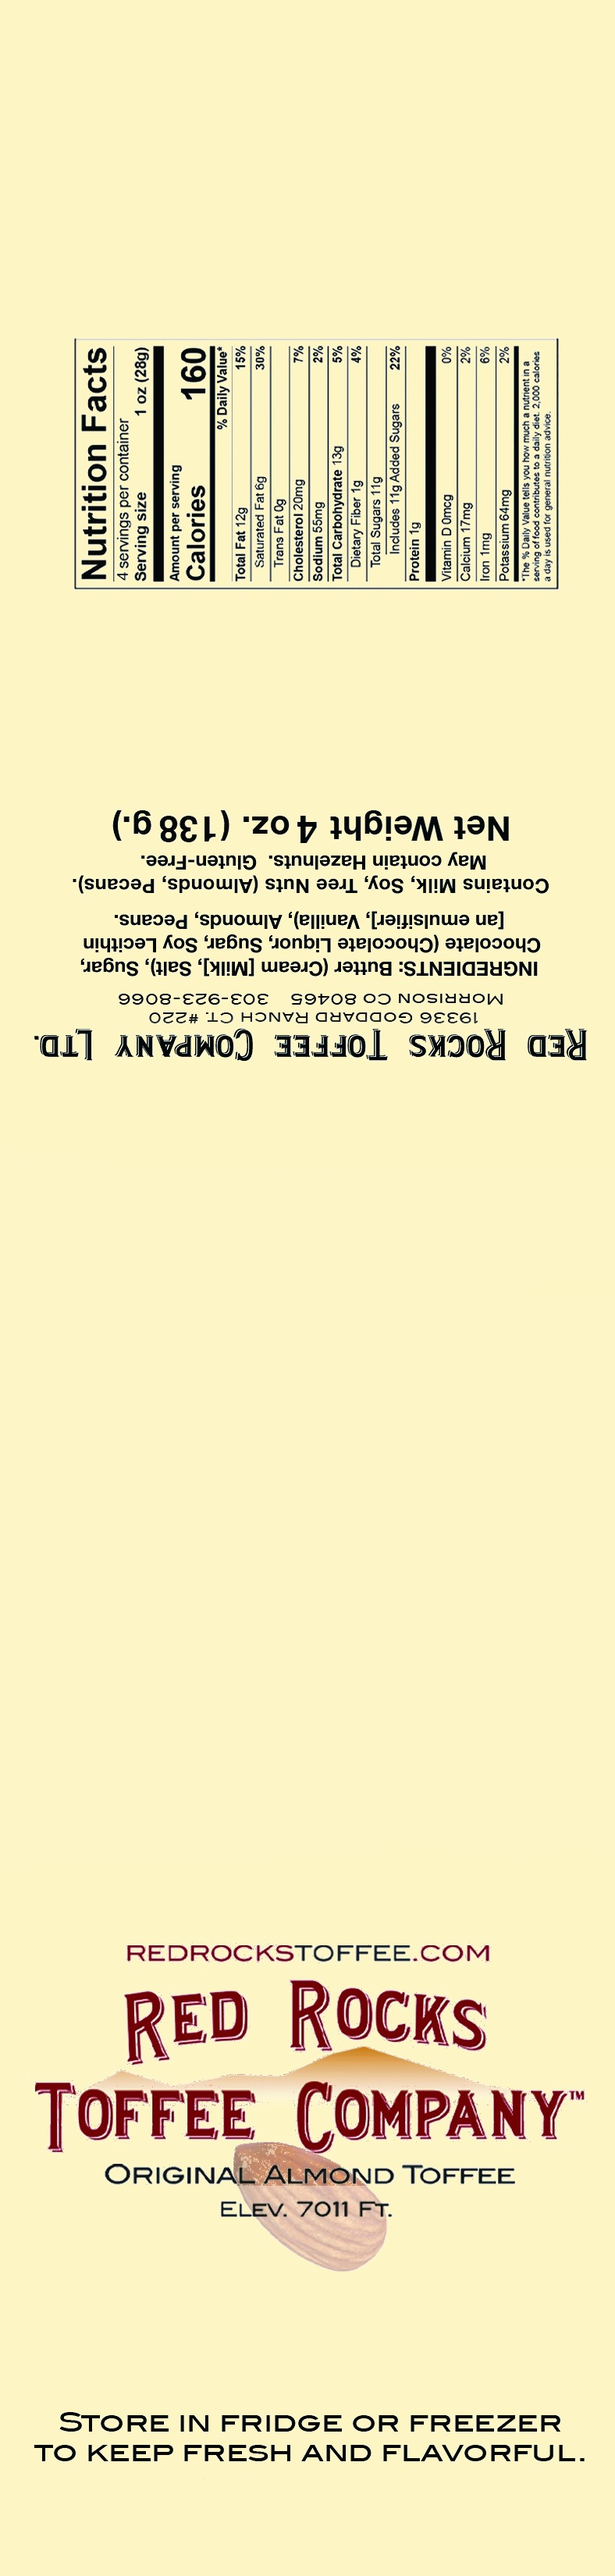
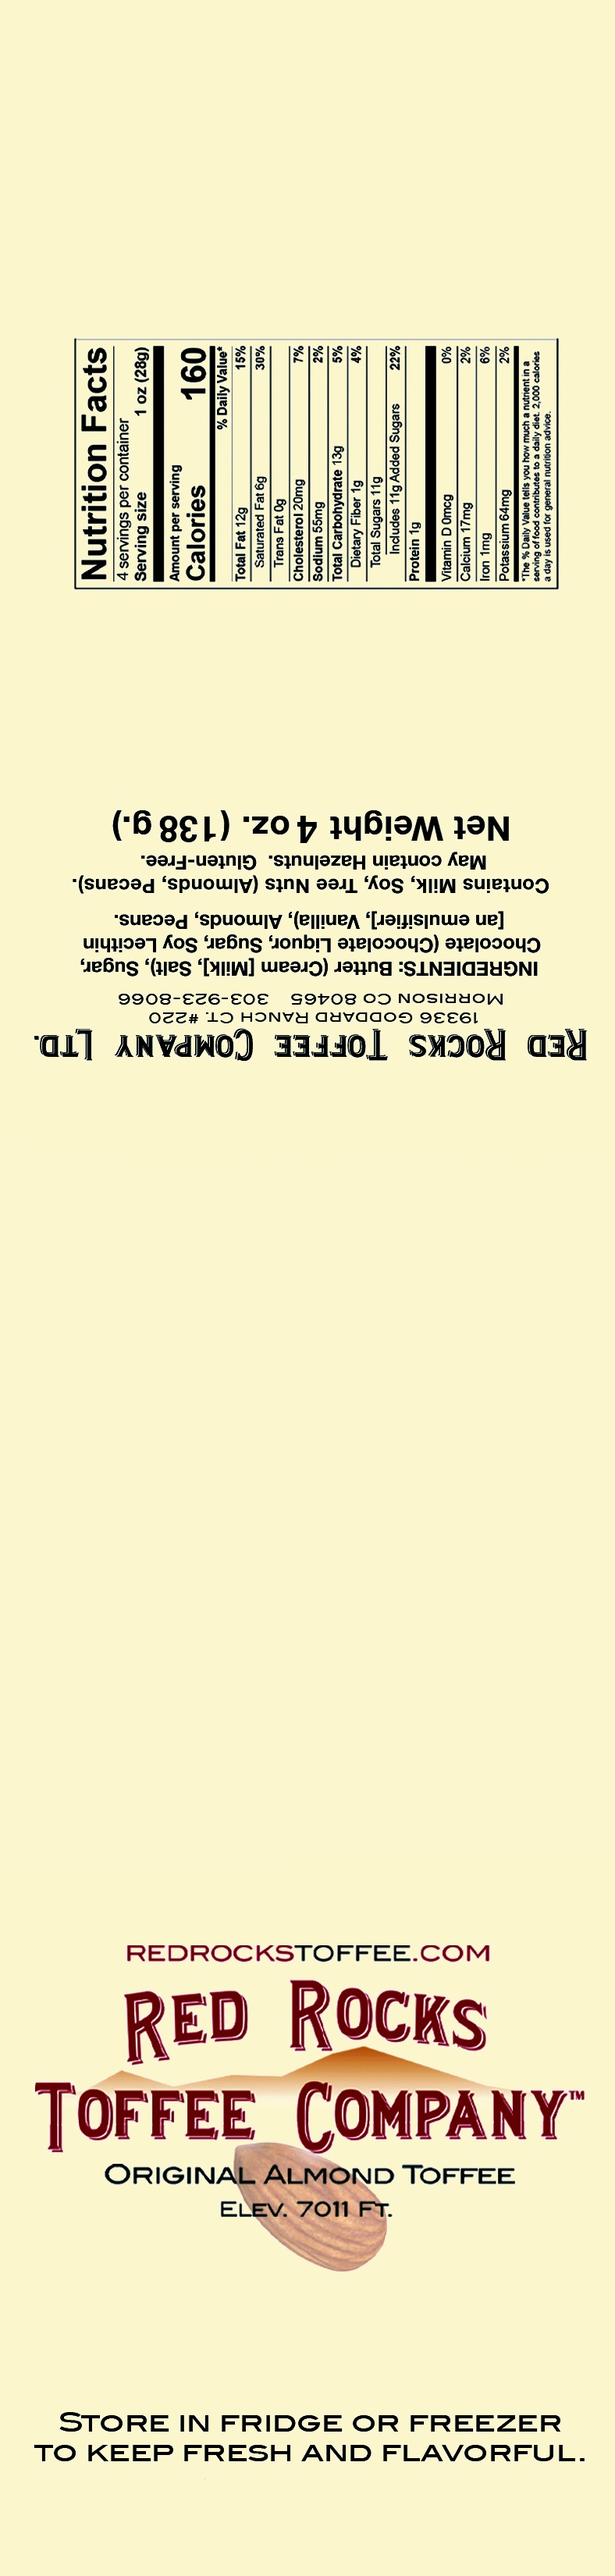
Fix label seam artifact, order-email delivery, and 3D-mockup paper color
- Replace 4oz-template.jpg wholesale with Pete's corrected source file
  (fixes a seam/halo artifact around the almond graphic, traced to an
  earlier bounded-rectangle retint that clipped into the artwork).
- handle-submission.php: order notification now goes to both
  admin_email and pete@roadrex.com (admin_email alone was going
  unchecked), and switches from MIME attachments to download links —
  a real order's attachments (~8.8MB) were hitting GoDaddy's mail
  relay's hard size cap (HTTP 413) and silently vanishing.
- Rebuild both -tinted.jpg files (3D box mockup) color-matched to a
  real physical label, replacing the old, never-verified tint.
- label-configurator.js: the editing-stage background now uses the
  same tint (previously only the 3D mockup did), and default "WHITE
  TYPE" customer text now previews in the paper tint instead of pure
  white (matching how unprinted paper actually looks) while the
  actual print payload still sends true white, since that's correct
  against the plain, untinted print template.

diff --git a/wp-content/plugins/rrt-label-configurator/assets/label-configurator.js b/wp-content/plugins/rrt-label-configurator/assets/label-configurator.js
@@ -54,6 +54,13 @@
 		pacifico: "'Pacifico', cursive",
 	};
 
+	// Pete, 2026-10-28: the calibrated label-paper tint — see
+	// resolveTextColor() below for why WHITE TYPE's on-screen fill uses
+	// this instead of true white. Keep in sync with tint-template.php's
+	// own target color by eye; there's no shared source for it since one
+	// is a PHP build script and the other is this browser-side preview.
+	var RRT_LABEL_TINT_HEX = '#fcf6cd';
+
 	// The 5 fixed text-color swatches (toffee-appropriate: brand red, gold,
 	// brown, cream, slate) — see inc/quote-module-card.part.php for why
 	// .color-row/.color-swatch themselves are the real site's own
@@ -190,7 +197,12 @@
 		// in rrt-label-configurator.php.
 		els.stage.style.aspectRatio = size.crop_width + ' / ' + size.visible_crop_height;
 		els.stageInner.style.aspectRatio = size.crop_width + ' / ' + size.crop_height;
-		els.bg.src = size.template_url;
+		// Pete, 2026-10-28: "that yellow isn't carried in the file" — the
+		// editing stage was showing the plain white template while only the
+		// 3D box mockup used the color-matched tint. Same tinted JPEG, same
+		// pixel dimensions as the plain file (the tint script only recolors,
+		// never resizes), so the zone/crop math below is unaffected.
+		els.bg.src = size.template_tinted_url;
 		els.bg.style.width = size.bg_width_pct + '%';
 		els.bg.style.transform = 'translate(-' + size.bg_translate_x + '%, -' + size.bg_translate_y + '%)';
 
@@ -1592,14 +1604,25 @@
 	// WHITE TYPE. Fix: always use the dark outline recipe — it's visible
 	// against this light backdrop in every case, including a harmless,
 	// subtle self-outline when the text itself is already dark.
-	function resolveTextColor( group ) {
+	// Pete, 2026-10-28: "white lettering... it'll need to be filled with the
+	// same label tint" — on the actual physical label, WHITE TYPE isn't
+	// white ink; it's just unprinted paper, so it prints as whatever color
+	// the paper actually is (confirmed earlier: the real label stock is a
+	// light yellow). The PRINT path must keep sending pure white though —
+	// GD draws that onto the PLAIN (untinted) template, where white is
+	// still the correct "leave this blank" marker. Only the on-screen
+	// preview (now showing the tinted background) should swap WHITE TYPE's
+	// fill for the same tint color, so it reads as blank paper instead of
+	// a stray white patch. forPrint keeps these two in sync for every
+	// other case — only WHITE TYPE diverges.
+	function resolveTextColor( group, forPrint ) {
 		if ( group.textColor ) {
 			return { color: group.textColor, outline: '#000000' };
 		}
 		if ( 'black' === group.shadowColor ) {
 			return { color: '#1a1a1a', outline: '#000000' };
 		}
-		return { color: '#ffffff', outline: '#000000' };
+		return { color: forPrint ? '#ffffff' : RRT_LABEL_TINT_HEX, outline: '#000000' };
 	}
 
 	// Pete, 2026-10-17: "black type shadow really needs to be backed way
@@ -1690,7 +1713,11 @@
 			} );
 			state.textGroups.forEach( function ( group ) {
 				if ( group.text.trim() ) {
-					var resolvedColor = resolveTextColor( group );
+					// forPrint=true: WHITE TYPE must stay pure white here —
+					// see resolveTextColor()'s own note on why the print
+					// path and the on-screen preview deliberately diverge
+					// only for that one case.
+					var resolvedColor = resolveTextColor( group, true );
 					layersMeta.push( {
 						type: 'text',
 						pos: group.pos,

diff --git a/wp-content/plugins/rrt-label-configurator/inc/handle-submission.php b/wp-content/plugins/rrt-label-configurator/inc/handle-submission.php
@@ -308,7 +308,7 @@ function rrt_label_handle_submit() {
 	// fails or just never gets tested at all. Either way, the files on
 	// disk (now in $order_dir, alongside order-info.txt below) are the
 	// real, always-true answer regardless of whether mail works.
-	rrt_label_email_submission( $fields, $composite_path, $layer_paths, $sheet_path, $original_paths );
+	rrt_label_email_submission( $fields, $composite_path, $layer_paths, $sheet_path, $original_paths, $order_dir, $proof_path );
 
 	// Same details as the email body, saved to disk too so the folder is
 	// self-contained — every part of the order "side by side," per Pete's
@@ -1051,21 +1051,32 @@ function rrt_label_draw_text( $canvas, $px, $label_text, $text_pos, $text_font, 
  *
  * Pete, 2026-10-18: "flat and layered... with the full file at 300 dpi
  * ready to print" — $layer_paths (from rrt_label_composite_layers(), may
- * be an empty array if that step failed) are attached alongside the flat
- * composite: the bare template plus one transparent PNG per customer
- * layer, all print-resolution, same full 11" size/position as the flat
- * file, so the whole design can be reconstructed as real separate layers
- * in Photoshop/GIMP.
+ * be an empty array if that step failed): the bare template plus one
+ * transparent PNG per customer layer, all print-resolution, same full
+ * 11" size/position as the flat file, so the whole design can be
+ * reconstructed as real separate layers in Photoshop/GIMP.
  *
  * Pete, 2026-10-19: $sheet_path (from rrt_label_composite_sheet(), may be
  * null if that step failed) is the actual print-ready sheet — the flat
- * label doubled/tripled side by side per rrt_label_sheet_config() — also
- * attached here since this is the only working delivery channel right
- * now ("this file will be attached to any customer emails" — the order
- * confirmation page version is explicitly deferred, pending WooCommerce).
+ * label doubled/tripled side by side per rrt_label_sheet_config().
+ *
+ * Pete, 2026-10-28: all of the above used to go out as real MIME
+ * attachments. A real order (flat + sheet + 4 layers + original upload,
+ * ~8.8MB raw) hit GoDaddy's mail relay's size cap and got a hard HTTP 413
+ * back — silently, since the result of wp_mail() was never checked.
+ * Cassie's earlier orders were smaller and happened to sneak under the
+ * cap, which is why they "came through like a dream" while this one
+ * vanished. Pete: "what if we send links to the files instead" / "that's
+ * what we have on theunframer.com" / "full files, everything" — so every
+ * file still goes out (nothing trimmed), just as a link into the order's
+ * own uploads folder (already public, like any other WP upload) instead
+ * of as a MIME attachment. No size ceiling either way now.
  */
-function rrt_label_email_submission( $fields, $composite_path, $layer_paths = array(), $sheet_path = null, $original_paths = array() ) {
-	$to      = get_option( 'admin_email' );
+function rrt_label_email_submission( $fields, $composite_path, $layer_paths = array(), $sheet_path = null, $original_paths = array(), $order_dir = '', $proof_path = null ) {
+	// Pete, 2026-10-28: admin_email (pete@redrockstoffee.com) wasn't getting
+	// checked — submissions were landing with no one seeing them. Send to
+	// both so a missed inbox on one side doesn't mean a missed order.
+	$to      = array_unique( array_filter( array( get_option( 'admin_email' ), 'pete@roadrex.com' ) ) );
 	$subject = sprintf( '[Co-Branding Label] New design from %s', $fields['name'] );
 
 	$logo_count = 0;
@@ -1078,14 +1089,49 @@ function rrt_label_email_submission( $fields, $composite_path, $layer_paths = ar
 		}
 	}
 
-	$body  = "A new co-branding label design was submitted:\n\n";
-	$body .= 'Box size: ' . $fields['size'] . "\n";
-	$body .= 'Name: ' . $fields['name'] . "\n";
-	$body .= 'Email: ' . $fields['email'] . "\n";
-	$body .= 'Phone: ' . $fields['phone'] . "\n";
-	$body .= 'Quantity requested: ' . $fields['quantity'] . "\n";
-	$body .= 'Labels to print (qty + 5% buffer): ' . $fields['labels_needed'] . "\n";
-	$body .= 'Logos: ' . $logo_count . "\n";
+	$upload_dir = wp_upload_dir();
+	$order_url  = trailingslashit( $upload_dir['baseurl'] ) . 'rrt-label-orders/' . rawurlencode( basename( $order_dir ) );
+
+	$files = array();
+	if ( $composite_path && file_exists( $composite_path ) ) {
+		$files['Flat label (300 DPI, ready to print)'] = $composite_path;
+	}
+	if ( $sheet_path && file_exists( $sheet_path ) ) {
+		$files[ sprintf( 'Print-ready sheet (%d labels tiled)', $fields['labels_needed'] ) ] = $sheet_path;
+	}
+	if ( $proof_path && file_exists( $proof_path ) ) {
+		$files['Customer-facing proof (logo/text in context)'] = $proof_path;
+	}
+	foreach ( $layer_paths as $layer_path ) {
+		if ( file_exists( $layer_path ) ) {
+			$files[ 'Layer: ' . basename( $layer_path ) ] = $layer_path;
+		}
+	}
+	// Pete, 2026-10-27: "here are the files" — one came through named
+	// literally "phpgTLcxA", no extension at all. $layer['tmp_path'] for a
+	// real upload is PHP's own raw upload tmp file, which has no real
+	// filename of its own. $original_paths (rrt_label_save_originals(),
+	// called before this function) already copied the same files into the
+	// order folder under proper names (original-logo-1.jpg, etc.) — link
+	// those instead so the filename actually means something.
+	foreach ( $original_paths as $original_path ) {
+		if ( file_exists( $original_path ) ) {
+			$files[ 'Original upload: ' . basename( $original_path ) ] = $original_path;
+		}
+	}
+
+	$body  = '<html><body style="font-family: Arial, sans-serif; line-height: 1.6;">';
+	$body .= '<h2 style="margin-bottom:4px;">New co-branding label design</h2>';
+	$body .= '<table style="border-collapse: collapse; width: 100%; max-width: 600px;">';
+	$body .= '<tr><td style="padding:6px 8px; border-bottom:1px solid #ddd;"><strong>Box size</strong></td><td style="padding:6px 8px; border-bottom:1px solid #ddd;">' . esc_html( $fields['size'] ) . '</td></tr>';
+	$body .= '<tr><td style="padding:6px 8px; border-bottom:1px solid #ddd;"><strong>Name</strong></td><td style="padding:6px 8px; border-bottom:1px solid #ddd;">' . esc_html( $fields['name'] ) . '</td></tr>';
+	$body .= '<tr><td style="padding:6px 8px; border-bottom:1px solid #ddd;"><strong>Email</strong></td><td style="padding:6px 8px; border-bottom:1px solid #ddd;"><a href="mailto:' . esc_attr( $fields['email'] ) . '">' . esc_html( $fields['email'] ) . '</a></td></tr>';
+	$body .= '<tr><td style="padding:6px 8px; border-bottom:1px solid #ddd;"><strong>Phone</strong></td><td style="padding:6px 8px; border-bottom:1px solid #ddd;">' . esc_html( $fields['phone'] ) . '</td></tr>';
+	$body .= '<tr><td style="padding:6px 8px; border-bottom:1px solid #ddd;"><strong>Quantity requested</strong></td><td style="padding:6px 8px; border-bottom:1px solid #ddd;">' . esc_html( $fields['quantity'] ) . '</td></tr>';
+	$body .= '<tr><td style="padding:6px 8px; border-bottom:1px solid #ddd;"><strong>Labels to print (+5%)</strong></td><td style="padding:6px 8px; border-bottom:1px solid #ddd;">' . esc_html( $fields['labels_needed'] ) . '</td></tr>';
+	$body .= '<tr><td style="padding:6px 8px; border-bottom:1px solid #ddd;"><strong>Logos</strong></td><td style="padding:6px 8px; border-bottom:1px solid #ddd;">' . esc_html( $logo_count ) . '</td></tr>';
+	$body .= '</table>';
+
 	// Pete, 2026-10-26: "I don't want to take someone's money and print a
 	// really sh*t label from a garbage file" — warn-not-block (confirmed),
 	// so this is the backstop: even if the customer ignored the on-page
@@ -1099,47 +1145,36 @@ function rrt_label_email_submission( $fields, $composite_path, $layer_paths = ar
 		}
 		++$logo_n;
 		if ( ! empty( $layer['low_quality'] ) ) {
-			$body .= "\xE2\x9A\xA0 Logo {$logo_n} may be low-resolution for the size it was placed at — check before printing.\n";
+			$body .= '<p style="color:#b00020; font-weight:bold;">&#9888; Logo ' . esc_html( $logo_n ) . ' may be low-resolution for the size it was placed at — check before printing.</p>';
 		}
 	}
-	foreach ( $text_lines as $i => $line ) {
-		$body .= 'Text ' . ( $i + 1 ) . ': ' . $line . "\n";
+
+	if ( $text_lines ) {
+		$body .= '<h3 style="margin-bottom:4px;">Text</h3><ul>';
+		foreach ( $text_lines as $i => $line ) {
+			$body .= '<li>Text ' . ( $i + 1 ) . ': ' . esc_html( $line ) . '</li>';
+		}
+		$body .= '</ul>';
 	}
 	if ( $fields['message'] ) {
-		$body .= "\nMessage:\n" . $fields['message'] . "\n";
-	}
-	$body .= "\nAttached:\n";
-	$body .= "- The flat, full 11\" label (PNG, real 300 DPI tag) — ready to print exactly as the customer designed it.\n";
-	if ( $layer_paths ) {
-		$body .= "- The same design as separate layers (bare template + one file per logo/text piece, numbered in stacking order) — open them all in Photoshop/GIMP as individual layers if you need to adjust any one piece by hand.\n";
-	}
-	$body .= "- The original uploaded logo file(s), if any, in case you want to work from the source image directly.\n";
-	if ( $sheet_path ) {
-		$body .= "- The print-ready sheet (multiple labels tiled side by side) — reprint this same file as many times as it takes to cover {$fields['labels_needed']} labels.";
+		$body .= '<h3 style="margin-bottom:4px;">Message</h3><p>' . nl2br( esc_html( $fields['message'] ) ) . '</p>';
 	}
 
-	$attachments = array( $composite_path );
-	if ( $sheet_path && file_exists( $sheet_path ) ) {
-		$attachments[] = $sheet_path;
-	}
-	foreach ( $layer_paths as $layer_path ) {
-		if ( file_exists( $layer_path ) ) {
-			$attachments[] = $layer_path;
+	$body .= '<h3 style="margin-bottom:4px;">Files</h3>';
+	if ( $files ) {
+		$body .= '<table style="border-collapse: collapse; width: 100%; max-width: 600px;">';
+		foreach ( $files as $label => $path ) {
+			$file_url = trailingslashit( $order_url ) . rawurlencode( basename( $path ) );
+			$body    .= '<tr><td style="padding:6px 8px; border-bottom:1px solid #eee;">' . esc_html( $label ) . '</td><td style="padding:6px 8px; border-bottom:1px solid #eee;"><a href="' . esc_url( $file_url ) . '" style="display:inline-block; padding:6px 14px; background:#3d4348; color:#fff; text-decoration:none; border-radius:4px;">Download</a></td></tr>';
 		}
-	}
-	// Pete, 2026-10-27: "here are the files" — one came through named
-	// literally "phpgTLcxA", no extension at all. $layer['tmp_path'] for a
-	// real upload is PHP's own raw upload tmp file, which has no real
-	// filename of its own; PHPMailer just uses that path's basename as the
-	// attachment's filename. $original_paths (rrt_label_save_originals(),
-	// called before this function) already copied the same files into the
-	// order folder under proper names (original-logo-1.jpg, etc.) — attach
-	// those instead so the filename in the inbox actually means something.
-	foreach ( $original_paths as $original_path ) {
-		if ( file_exists( $original_path ) ) {
-			$attachments[] = $original_path;
-		}
+		$body .= '</table>';
+	} else {
+		$body .= '<p>No files were generated for this order — check the order folder on the server.</p>';
 	}
 
-	wp_mail( $to, $subject, $body, array(), $attachments );
+	$body .= '</body></html>';
+
+	$headers = array( 'Content-Type: text/html; charset=UTF-8' );
+
+	wp_mail( $to, $subject, $body, $headers );
 }
